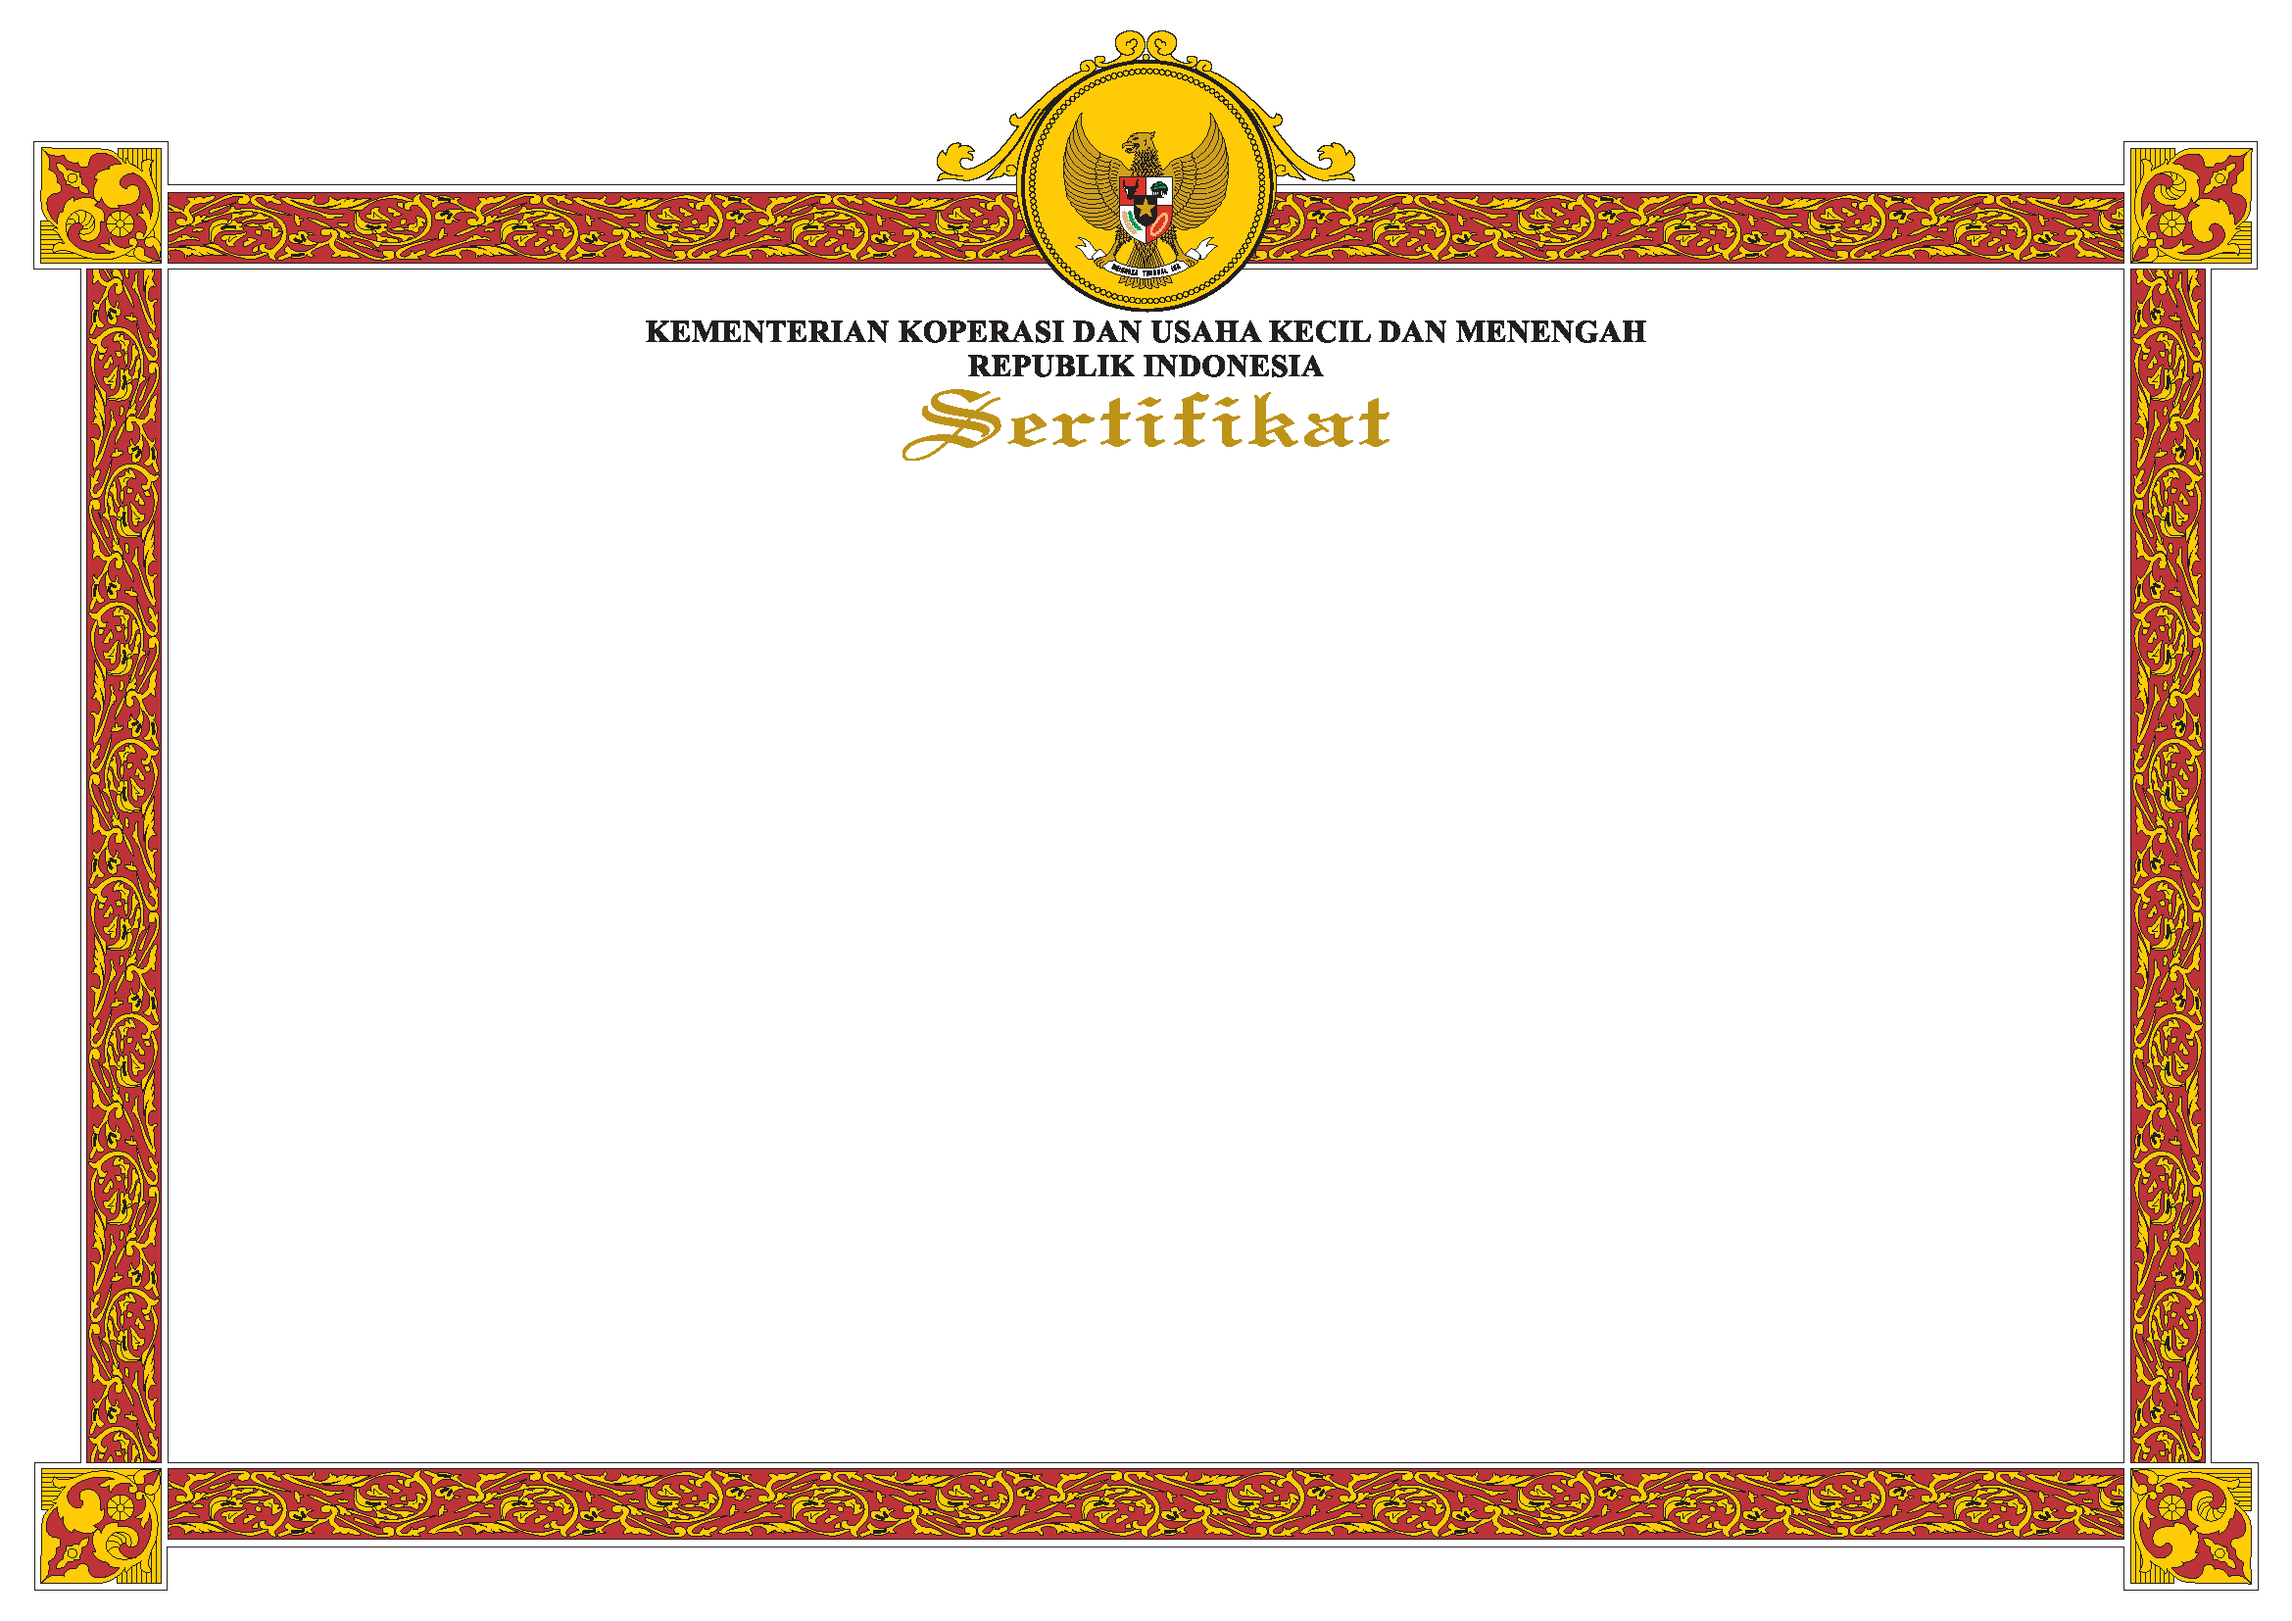
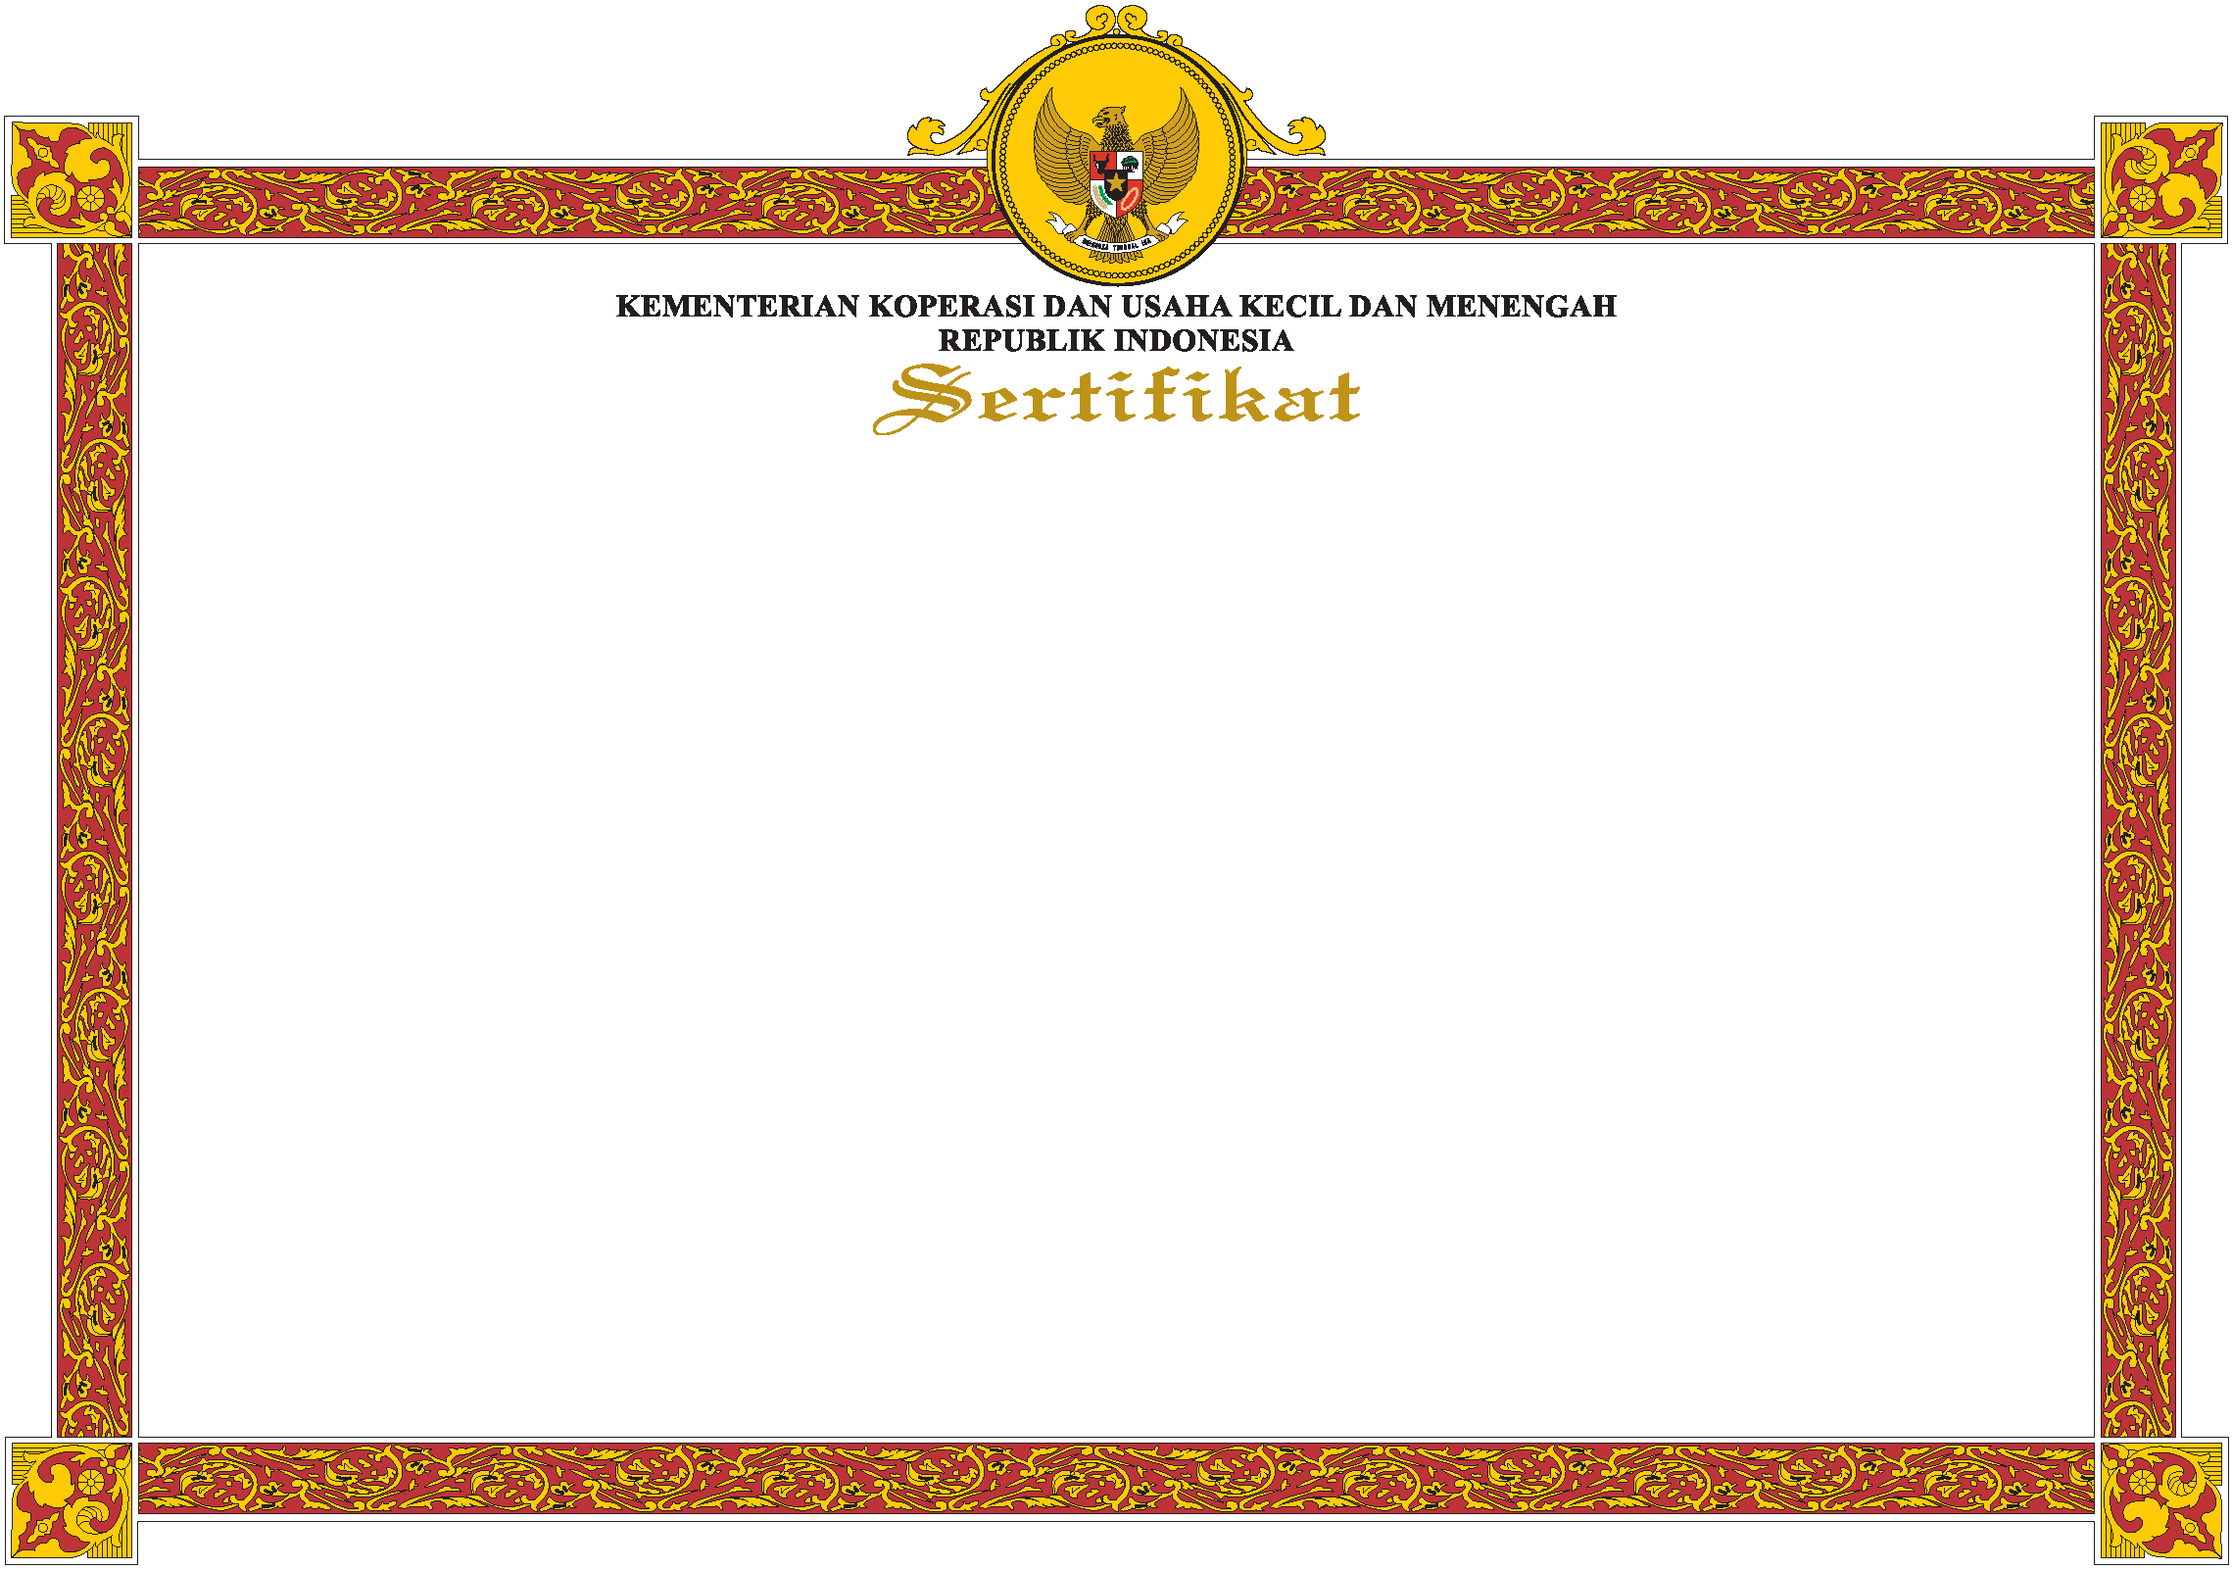
fix label, date of birth, sertifikat

Changed region(s): [[0.0, 0.0, 1.0, 0.9988]]

diff --git a/public/api/auth/registration.js b/public/api/auth/registration.js
@@ -77,7 +77,8 @@ $('form').submit(function(e) {
     fd.append('name', $('#name').val())
     fd.append('email', $('#email').val())
     fd.append('nik', $('#nik').val())
-    fd.append('date_of_birth', $('#date_of_birth').val())
+    // fd.append('date_of_birth', $('#date_of_birth').val())
+    fd.append('date_of_birth', `${$('#month').val()}-${$('#date').val()}`)
     fd.append('gender', $('input[type=radio][name=gender]:checked').val())
     fd.append('agency', $('#agency').val())
     fd.append('position', $('#position').val())
@@ -98,7 +99,7 @@ $('form').submit(function(e) {
         error: function(xhr) {
             $('#submit').attr('disabled', false)
             let err = xhr.responseJSON.errors
-            console.log(err)
+            // console.log(err)
             if (err.name) {
                 $('#name').addClass('is-invalid')
                 $('#name').siblings('.invalid-feedback').html('Masukkan nama lengkap.')

diff --git a/resources/views/registration.blade.php b/resources/views/registration.blade.php
@@ -50,20 +50,37 @@
                         <input type="tel" class="form-control" id="nik" minlength="16" maxlength="16">
                         <div class="invalid-feedback"></div>
                     </div>
-                    <div class="form-group">
-                        <label for="date_of_birth" class="font-weight-bold">Tanggal Lahir*</label>
-                        <input type="date" class="form-control" id="date_of_birth">
-                        <div class="invalid-feedback"></div>
-                    </div>
+                    <label for="date_of_birth" class="font-weight-bold d-block">Tanggal Lahir*</label>
+	                <div class="form-group">
+	                	<div class="row">
+			                <div class="col-4">
+			                    <select id="date" class="custom-select" role="button">
+			                    	<option value="" disabled selected>Pilih</option>
+			                    	@for ($i = 1; $i <= 31; $i++)
+				                    	@if ($i < 10)
+					                    	<option value="0{{$i}}">0{{$i}}</option>
+				                    	@else
+					                    	<option value="{{$i}}">{{$i}}</option>
+				                    	@endif
+			                    	@endfor
+			                    </select>
+			                </div>
+			                <div class="col-8 pl-0">
+			                    <input type="month" class="form-control" id="month">
+			                </div>
+		                </div>
+		                <input type="hidden" id="date_of_birth">
+	                    <div class="invalid-feedback"></div>
+	                </div>
                     <div class="form-group">
                         <label class="d-block font-weight-bold">Jenis Kelamin*</label>
                         <div class="custom-control custom-radio custom-control-inline">
                             <input name="gender" type="radio" class="custom-control-input" id="male" value="laki-laki">
-                            <label class="custom-control-label" for="male">Laki-Laki</label>
+                            <label class="custom-control-label" for="male" role="button">Laki-Laki</label>
                         </div>
                         <div class="custom-control custom-radio custom-control-inline">
                             <input name="gender" type="radio" class="custom-control-input" id="female" value="perempuan">
-                            <label class="custom-control-label" for="female">Perempuan</label>
+                            <label class="custom-control-label" for="female" role="button">Perempuan</label>
                         </div>
                         <div id="gender"></div>
                         <div class="invalid-feedback"></div>

diff --git a/resources/views/sertifikat.blade.php b/resources/views/sertifikat.blade.php
@@ -85,7 +85,7 @@
         }
 
         .qrcode {
-            padding-top: 50px;
+            padding-top: 80px;
             padding-left: 25px;
             margin-bottom: -10px;
         }
@@ -104,7 +104,7 @@
 	<div class="d-none" id="pdf">
 	    <img class="img-background" src="{{ asset('assets/images/back_sertifikat.png') }}" style="width:97%">
 	    <div class="isi-content">
-	    	<img id="photo_url" style="width: 100px; position: absolute;top: 50%; left: 50%; margin-top: -180px; margin-left: -50px;">
+	    	<img id="photo_url" style="width: 100px; position: absolute;top: 50%; left: 50%; margin-top: -190px; margin-left: -50px;">
 	        <div class="text-center col-lg-7 d-block mx-auto" style="margin-top:200px;">
 	            <div class="tahoma" style="margin-top:15px;">Diberikan Kepada :</div> 
 	            <div class="vivaldi" id="name"></div>
@@ -128,11 +128,11 @@
 	                </div>
 	            </div>
 	        </div>
-	        <div class="float-right ttd-margin" style="margin-right: 200px;">
+	        <div class="float-right ttd-margin" style="margin-right: 200px;margin-top: 20px;">
 	            <div class="col-lg-12 text-center">
 	                <div class="tahoma">Jakarta, <span id="ttd_tanggal"></span></div>
 	                <div class="tahoma">Deputi Bidang Perkoperasian</div>
-	                <img class="img-fluid" src="{{ asset('assets/images/harkop.png') }}" width="45%" style="position:absolute; right:290px; top:10px;">
+	                <img class="img-fluid" src="{{ asset('assets/images/harkop.png') }}" width="45%" style="position:absolute; right:320px; top:10px;">
 	                <img class="img-fluid" src="{{ asset('assets/images/cap.png') }}" width="45%" style="position:absolute; right:115px; top:20px;">
 	                <img class="img-fluid" src="{{ asset('assets/images/ttd.png') }}" width="35%" style="position:absolute; right:70px; top:20px;">
 	                <br><br><br>
@@ -222,10 +222,10 @@
             let element = $('#pdf').html()
             // console.log(element)
             let opt = {
-                margin: [0.3, 0.3],
+                margin: [0, 0],
                 filename: filename,
                 image: { type: 'jpeg', quality: 0.98 },
-                html2canvas: { scale: 2 },
+                html2canvas: { scale: 3 },
                 jsPDF: { unit: 'in', format: 'a4', orientation: 'landscape' }
             }
             html2pdf().from(element).set(opt).toPdf().get('pdf').then(function(pdf) {

diff --git a/resources/views/login.blade.php b/resources/views/login.blade.php
@@ -4,7 +4,7 @@
 	<meta charset="UTF-8">
 	<meta name="viewport" content="width=device-width, initial-scale=1.0">
 	<meta name="csrf-token" content="{{ csrf_token() }}">
-	<title>Ambil Sertifikat - Webinar</title>
+	<title>Daftar Hadir/ Ambil Sertifikat - Webinar</title>
 	<link rel="stylesheet" href="{{asset('assets/vendors/bootstrap/css/bootstrap.min.css')}}">
 	<link rel="stylesheet" href="{{asset('assets/vendors/mdi/css/materialdesignicons.min.css')}}">
     <link rel="stylesheet" href="{{asset('assets/css/style.css')}}">
@@ -32,7 +32,7 @@
     <div class="card-form-login">
         <div class="card-form">
             <div class="card-body">
-        		<h5 class="font-weight-bold text-center">Ambil Sertifikat</h5>
+        		<h5 class="font-weight-bold text-center">Daftar Hadir/ Ambil Sertifikat</h5>
         		<hr>
                 <form id="form">
 					<div class="alert alert-danger" id="alert" role="alert" style="display:none">
